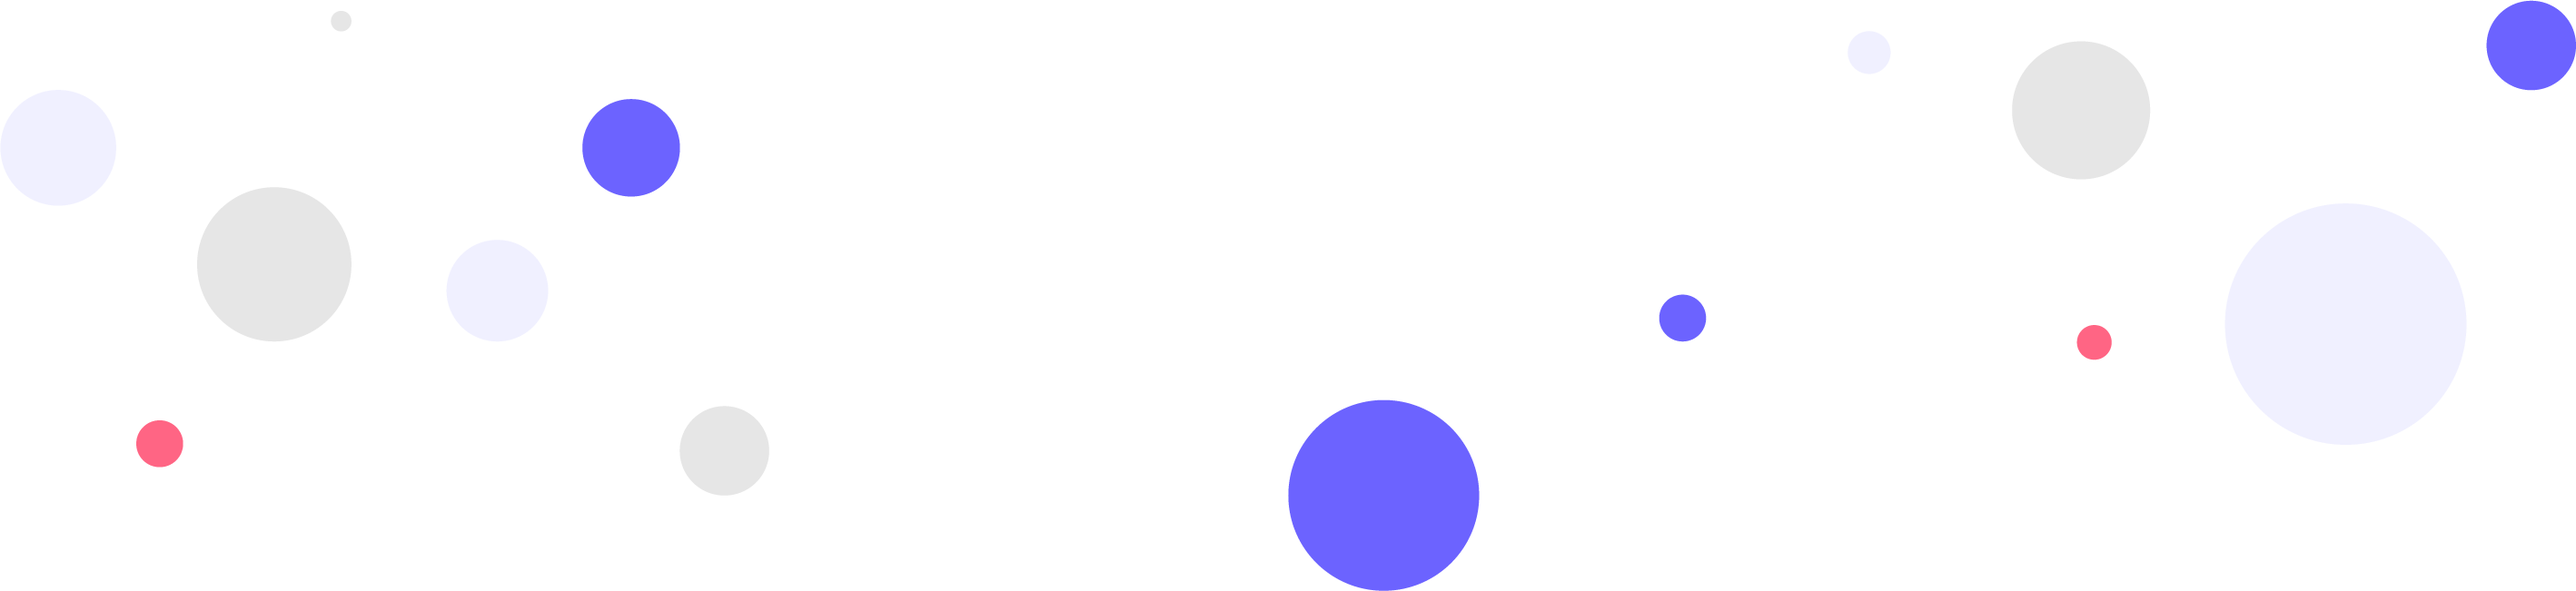
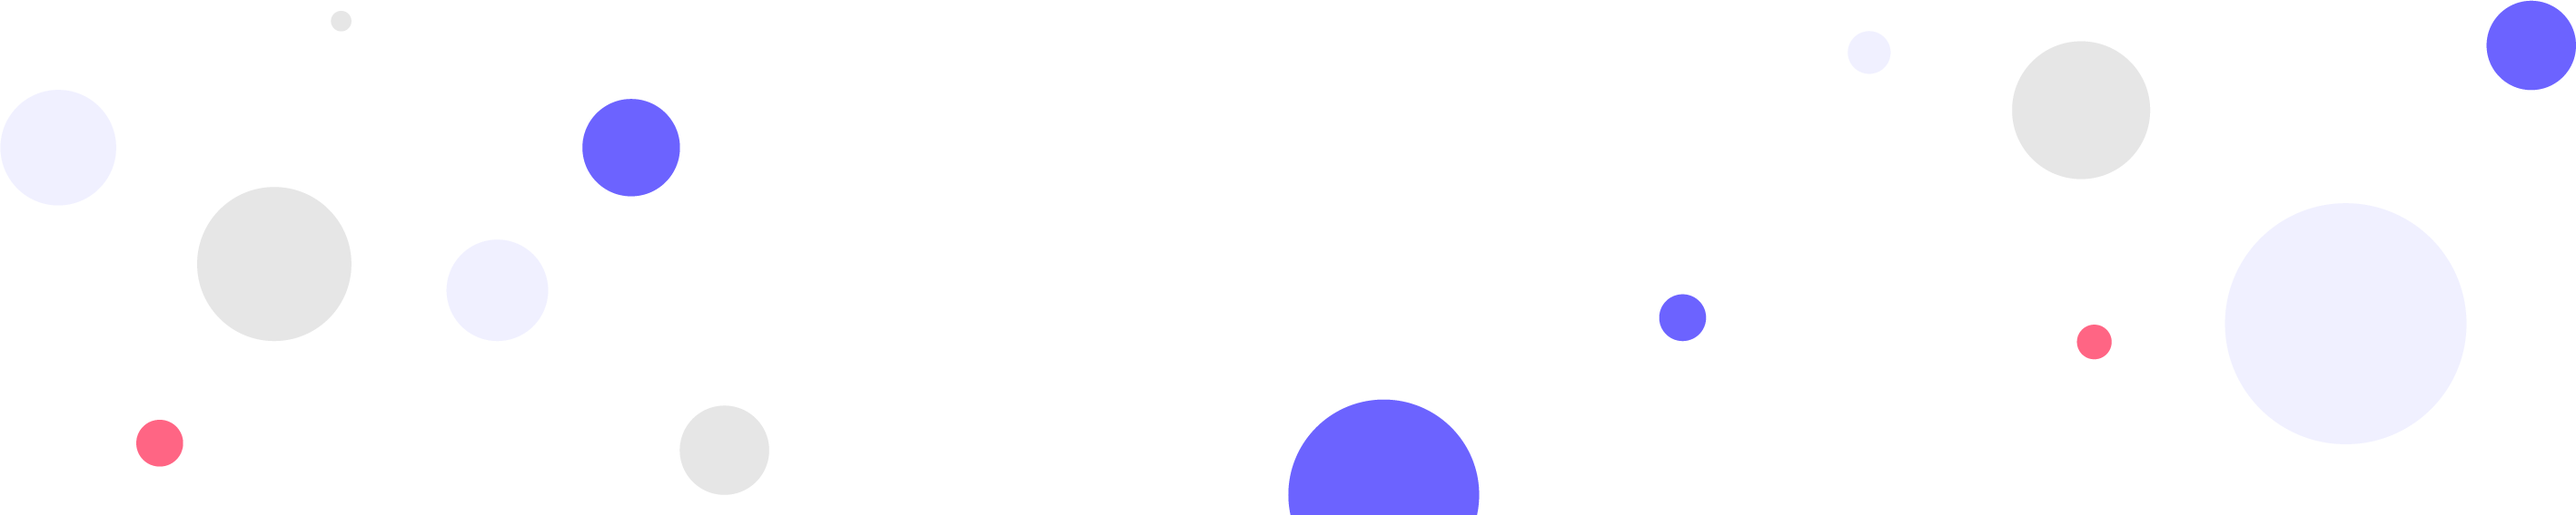
Fix cover footer

diff --git a/static/css/custom.css b/static/css/custom.css
@@ -181,7 +181,7 @@
 #cover .quire #main {
   background-image: url('../img/illustrations/footer-graphic.png');
   background-position-x: center;
-  background-position-y: bottom -3rem;
+  background-position-y: bottom;
   background-size: 105%;
   background-repeat: no-repeat;
 }
